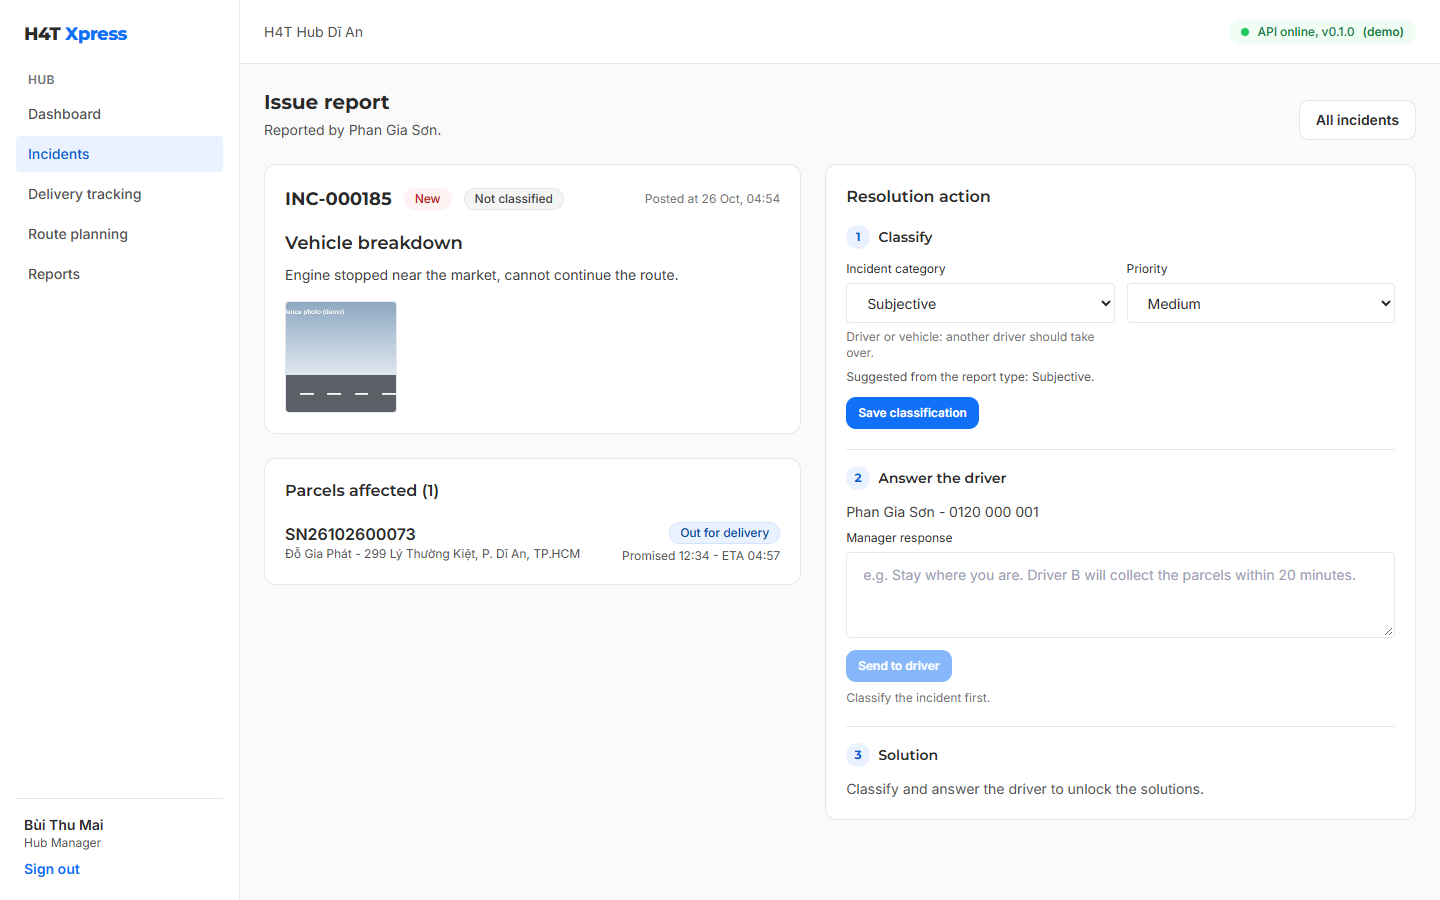
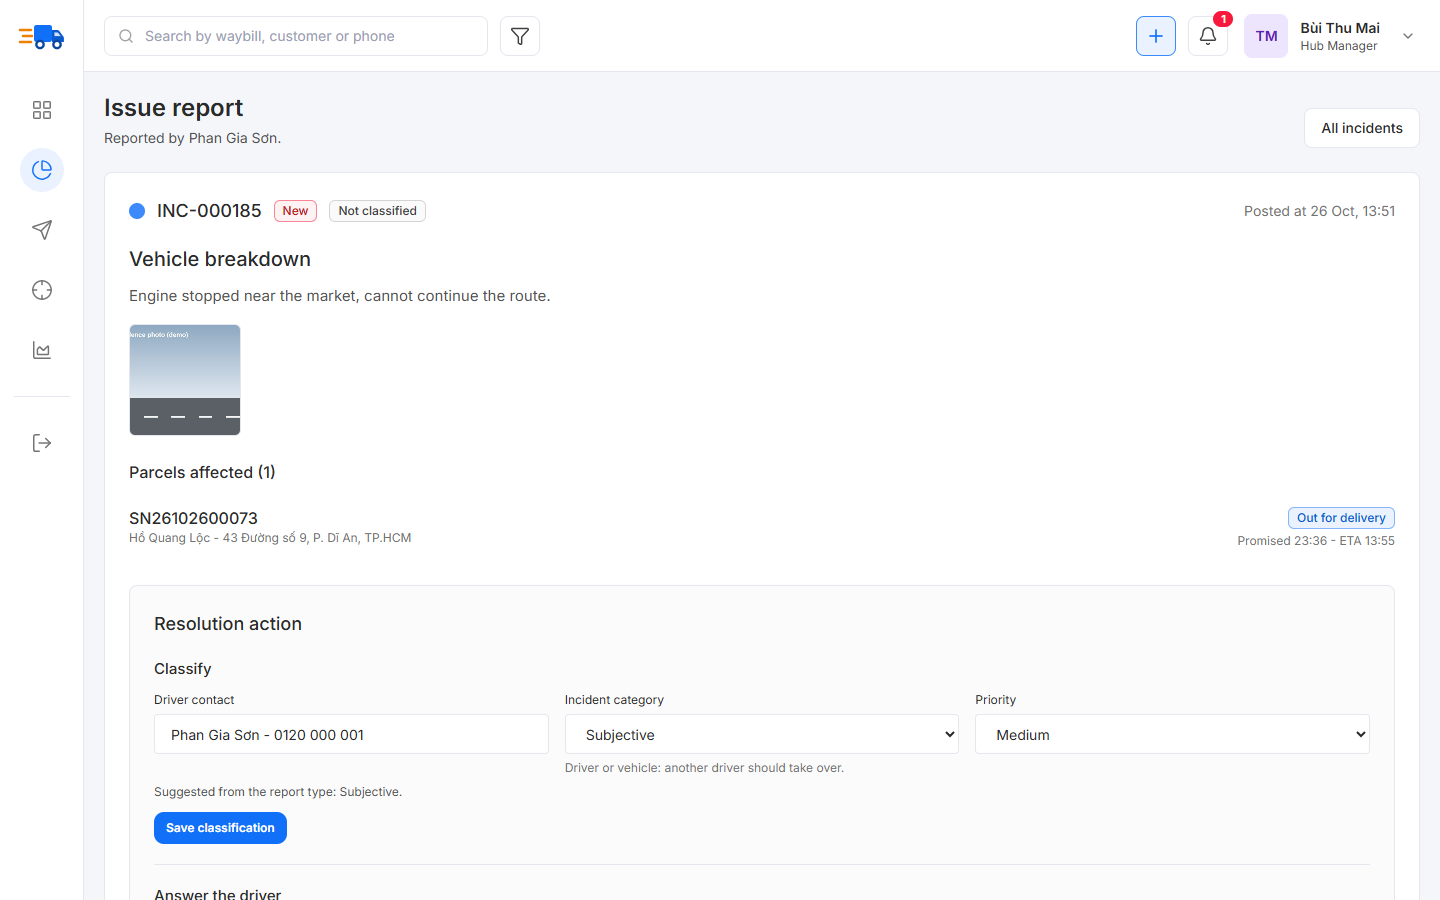
docs: Figma redesign decisions, checklist rows and new screenshots

diff --git a/docs/CHECKLIST.md b/docs/CHECKLIST.md
@@ -49,12 +49,12 @@ Kiểm thử ở cuối giai đoạn này:
 
 | | Màn | Route | Ghi chú |
 |---|---|---|---|
-| [x] | H-01 Dashboard | `/hub` | 5 thẻ KPI, vòng trạng thái (CSS conic-gradient, không dùng thư viện biểu đồ), cột "Needs attention" (đơn rủi ro SLA, sự cố mở), bảng đơn có lọc |
-| [x] | H-02 Lập kế hoạch tuyến | `/hub/routes` | Tuyến hôm nay theo tài xế, quãng đường và thời gian còn lại, nguồn ETA; "Suggest best order" (OSRM `/trip`), đổi thứ tự Up/Down, bản đồ tuyến hiện tại (đỏ, nét đứt) và bản nháp (xanh); lưu là gửi xuống tài xế |
-| [x] | H-03 Theo dõi giao hàng | `/hub/tracking[/:orderId]` | Cột tài xế (lọc Taking orders / With orders / All), bản đồ sống với vị trí cập nhật realtime và đường đi thật, timeline đơn, thao tác: chọn/đổi tài xế, giữ đơn, thả đơn, xác nhận hoàn hàng, ảnh các lần giao |
-| [x] | H-04 Tổng quan sự cố | `/hub/incidents` | KPI theo trạng thái, theo mức ưu tiên, theo loại 30 ngày, sự cố mới nhất |
-| [x] | H-05 Danh sách sự cố | `/hub/incidents/list` | Tab trạng thái, lọc ưu tiên, thẻ sự cố theo frame "View All Incidents" |
-| [x] | H-06 Chi tiết sự cố | `/hub/incidents/:id` | Frame "Issue Report": 3 bước Phân loại → Phản hồi → Giải pháp, lịch sử quyết định |
+| [x] | H-01 Dashboard | `/hub` | Bố cục frame "HUB Dashboard": "Recent orders" (đếm hôm nay, so với 30 ngày trước, biểu đồ vùng đơn theo ngày có con trỏ), "Orders by status" (vòng + chú thích 2 cột), cột "Needs attention" kiểu thẻ "Order Requests" (đơn rủi ro SLA, sự cố mở), bảng "Latest orders" (lọc trạng thái, SLA, tìm từ thanh trên), "Waiting for a driver" và "Routes in progress" |
+| [x] | H-02 Lập kế hoạch tuyến | `/hub/routes` | Bố cục frame "Route Planning": bản đồ lớn, danh sách tài xế nổi bên trái ("Change route"), thẻ tóm tắt và thanh thời gian giữa các điểm ở dưới, cột "Stops" bên phải (Up/Down, giờ ước tính); "Suggest best order" (OSRM `/trip`), tuyến hiện tại đỏ nét đứt, bản nháp xanh; lưu là gửi xuống tài xế |
+| [x] | H-03 Theo dõi giao hàng | `/hub/tracking[/:orderId]` | Bố cục frame "Theo dõi giao hàng": thẻ tài xế có icon xe tải, nút Track, mở ra các điểm dừng và số điện thoại; bản đồ "Shipment ID" với thẻ tóm tắt nổi; cột "Status" có thanh tiến độ, timeline kiểu Figma, "Actions", "Delivery details"; giữ/thả đơn, đổi tài xế, xác nhận hoàn hàng, ảnh các lần giao |
+| [x] | H-04 Tổng quan sự cố | `/hub/incidents` | Bố cục frame "Overview": 4 thẻ đếm, vòng sự cố mở theo ưu tiên, bản đồ tài xế đang chạy (thay "Reach"), tài xế online (thay "Member online"), loại sự cố 30 ngày, bảng sự cố mới nhất có dải tiêu đề màu cam nhạt |
+| [x] | H-05 Danh sách sự cố | `/hub/incidents/list` | Theo frame "View All Incidents": ô tìm (mã sự cố, tài xế, mã vận đơn), lọc ưu tiên có chấm màu, lọc thời gian, tab có icon, thẻ sự cố, phân trang số |
+| [x] | H-06 Chi tiết sự cố | `/hub/incidents/:id` | Bố cục frame "Issue Report": mã có chấm trạng thái, mô tả, ảnh, bản đồ, các kiện; hộp "Resolution action" (liên hệ tài xế, loại, ưu tiên trên một hàng; phản hồi; chọn giải pháp có icon), lịch sử quyết định |
 | [x] | H-07 Đổi tài xế | trong H-06 và H-03 | Bản đồ ứng viên + danh sách xếp hạng, popup "SUCCESS!" |
 | [x] | H-08 Đổi tuyến | trong H-06 | Dùng chung bộ sửa thứ tự với H-02: nút "Suggest best order", Up/Down, bản đồ tuyến cũ (đỏ, nét đứt) và mới (xanh) |
 
@@ -62,14 +62,14 @@ Kiểm thử ở cuối giai đoạn này:
 
 | | Màn | Route | Ghi chú |
 |---|---|---|---|
-| [x] | A-01 Danh sách người dùng | `/admin` | Tìm kiếm, lọc, phân trang, khoá/mở, đặt lại mật khẩu |
+| [x] | A-01 Danh sách người dùng | `/admin` | 4 thẻ đếm (tất cả, tài xế, quản lý Hub, bị khoá), tìm kiếm, lọc, bảng có avatar chữ viết tắt, phân trang, khoá/mở, đặt lại mật khẩu |
 | [x] | A-02 Tạo / sửa người dùng | `/admin/users/new`, `/admin/users/:id` | Mật khẩu tạm chỉ hiện một lần |
 | [x] | A-03 Ma trận phân quyền | `/admin/roles` | Bật/tắt theo vai trò × quyền |
 | [x] | A-04 Hub và khu vực | `/admin/hubs` | Thêm/sửa Hub (mã, tên, địa chỉ, toạ độ, khu vực, trạng thái) và khu vực; tắt Hub thay cho xoá |
 | [x] | A-05 Ca làm | `/admin/shifts` | Lọc theo Hub; sửa giờ, sức chứa, bật/tắt từng ca; giờ sai báo lỗi |
 | [x] | A-06 Tham số hệ thống | `/admin/settings` | Nhóm theo nghiệp vụ (Dispatch, ETA, SLA, Delivery, Shifts, Anomaly, Demo simulator); mỗi khoá có mô tả, luật kiểm tra và thời điểm lưu |
 | [x] | A-07 Nhật ký audit | `/admin/audit` | Lọc theo nhóm hành động, phân trang, xem giá trị trước/sau của từng thay đổi |
-| [x] | E-01 Báo cáo | `/reports` | Bộ lọc một hàng (7/30/90 ngày, khoảng ngày, chọn Hub); 8 thẻ KPI so với kỳ trước ("better/worse"); biểu đồ cột sản lượng có tooltip, chú giải và bảng số liệu; lý do thất bại, đúng hạn theo khu vực; top tài xế và Hub kèm thay đổi thứ hạng |
+| [x] | E-01 Báo cáo | `/reports` | Bố cục frame "Reports": bộ lọc dạng viên thuốc (Timeframe có khoảng ngày tự chọn, Hub chọn nhiều có chip); 6 thẻ KPI bo tròn so với kỳ trước, đường xu hướng cho tổng đơn, tỷ lệ thành công, đúng hạn; "Order volume" có cột nền, chọn ngày/tuần/tháng, bảng số liệu; lý do thất bại và đúng hạn theo khu vực dạng thanh chuyển màu; top tài xế (avatar) và Hub kèm tam giác lên/xuống |
 | [x] | E-02 Xuất file | `/reports` | Excel (mỗi khối một sheet) và PDF (KPI, bảng, biểu đồ, tiếng Việt có dấu); Hub Manager chỉ xem Hub của mình và không có quyền xuất |
 
 ### ShopNow (sàn giả lập) và khách hàng
@@ -84,7 +84,9 @@ Kiểm thử ở cuối giai đoạn này:
 ### Nền tảng giao diện
 
 - [x] Design system theo Figma: Montserrat cho tiêu đề và Inter cho nội dung; màu chính `#1070F8`; ô nhập 52px bo góc 4px; nút 50px bo góc 10px
-- [x] Không dùng thư viện icon, kể cả trên bản đồ: điểm đánh dấu là hình tròn vẽ bằng Leaflet `CircleMarker`
+- [x] Giao diện Hub, Nhà quản trị, Admin dựng lại theo Figma (26/10, P3-18): khung Hub có thanh icon hẹp và thanh trên (tìm đơn, lọc SLA, thao tác nhanh, chuông sự cố, menu người dùng); khung Reports/Admin có menu rộng và chữ "H4T XPRESS" đỏ; thẻ, bảng, huy hiệu viền mảnh theo Figma
+- [x] Icon `lucide-react` chỉ ở chỗ Figma có icon; điểm trên bản đồ vẫn là hình tròn `CircleMarker`
+- [x] Kiểm tra không tràn ngang ở 390px và 1024px cho mọi màn Hub, Reports, Admin
 - [x] Bộ component: thêm `TextAreaField`, `KpiCard`, `StatusBadge`, `Timeline`, `DeliverySteps`, `MapView`, `PhotoPicker`, `CandidatePicker`, `ScreenTitle`
 - [x] Bản đồ Leaflet + OpenStreetMap (tile của FOSSGIS `tile.openstreetmap.de`, vì DNS một số nhà mạng VN không phân giải `tile.openstreetmap.org`); tắt zoom bằng con lăn để trang cuộn bình thường
 - [x] Realtime: một WebSocket mỗi tab, tự kết nối lại; sự kiện từ server làm mới đúng các query liên quan

diff --git a/docs/SPEC.md b/docs/SPEC.md
@@ -362,10 +362,14 @@ Bổ sung cho §3.3, §5.4–§5.8, §5.11 và §7. Code và test bám theo bả
 | P3-11 | Tham số hệ thống (A-06) | Mỗi khoá có luật kiểm tra riêng; sai trả `SETTING_INVALID`; khoá nội bộ `sim.*` bị ẩn; mọi thay đổi ghi audit | Không nhập được giá trị làm hỏng điều phối |
 | P3-12 | Dữ liệu GPS | Mỗi giờ xoá điểm GPS cũ hơn 7 ngày | Giới hạn 0,5 GB của Neon free (§12) |
 | P3-13 | PWA | `public/sw.js` viết tay thay cho vite-plugin-pwa: trang network-first, `/assets` cache-first, không cache API; chỉ đăng ký ở bản build | Ít phụ thuộc, không vướng phiên bản Vite 8; app tài xế vẫn mở được khi mất mạng |
-| P3-14 | Frontend | Tách code theo trang bằng `React.lazy`; bản đồ chỉ dùng `CircleMarker` và `Polyline` | Tải nhanh trên điện thoại; không cần ảnh marker (quy ước không icon) |
+| P3-14 | Frontend | Tách code theo trang bằng `React.lazy`; bản đồ chỉ dùng `CircleMarker` và `Polyline` | Tải nhanh trên điện thoại; không cần tải ảnh marker |
 | P3-15 | E2E | Playwright chạy trên stack Docker; máy Windows dùng Edge có sẵn, CI dùng Chromium; workflow `e2e.yml` chạy khi mở PR | Chạy local không cần tải trình duyệt |
 | P3-16 | Lưu ảnh | Chỉ có lưu ổ đĩa; trên Render ảnh mất khi khởi động lại | Demo nạp lại mỗi ngày; adapter Cloudinary hoặc S3 để sau |
 | P3-17 | Thống kê tài xế | `daily_driver_stats` được cộng dồn ngay khi nhận, giao, giao lỗi và báo sự cố; không có job `stats.daily_snapshot` | Số liệu luôn đúng tới thời điểm xem |
+| P3-18 | Giao diện theo Figma (26/10) | Màn Hub, Nhà quản trị và Admin dựng lại theo bố cục Figma. Hub: thanh menu icon hẹp, thanh trên có ô tìm đơn, nút lọc SLA, menu thao tác nhanh "+", chuông sự cố đang mở, menu người dùng; thẻ trắng có tiêu đề và "View all". Reports và Admin: menu rộng có icon, chữ "H4T XPRESS" đỏ, thẻ bo tròn có bóng, bộ lọc dạng viên thuốc. Bỏ quy ước "không icon": dùng `lucide-react`, chỉ đặt ở chỗ Figma có icon | Chủ dự án yêu cầu giao diện giống Figma; bản tối giản trước đó bị đánh giá là quá đơn giản |
+| P3-19 | Tìm sự cố (H-05) | `GET /hub/incidents` thêm `q` (mã sự cố, tên tài xế hoặc mã vận đơn) và `days` (báo trong N ngày gần nhất) | Ô tìm kiếm và bộ lọc thời gian của frame "View All Incidents" chạy thật |
+| P3-20 | Đường xu hướng KPI (E-01) | Mỗi điểm của chuỗi sản lượng có thêm `on_time` và `returned`; sparkline của tỷ lệ thành công và đúng hạn tính đúng như KPI | Figma có đường xu hướng dưới thẻ KPI; không vẽ đường cho chỉ số không có dữ liệu theo kỳ |
+| P3-21 | Dữ liệu thay ảnh trong Figma | Ảnh người thật thành chữ viết tắt trên nền màu; ảnh minh hoạ lý do thất bại thành ô icon; thẻ "Revenue Growth" thành "On-time rate"; khối "Reach" thành bản đồ tài xế đang chạy | Demo không có ảnh thật và không quản lý doanh thu |
 
 **Thiết lập chế độ demo bổ sung:** `anomaly.idle_minutes` = 3, `sim.gps_enabled` = true, `sim.speed_factor` = 4. Seed cho tài xế thứ 2–4 của mỗi Hub đang giao sẵn trong ngày, để bản đồ và màn tối ưu tuyến có dữ liệu ngay.
 
@@ -379,7 +383,7 @@ Bổ sung cho §3.3, §5.4–§5.8, §5.11 và §7. Code và test bám theo bả
 |---|---|
 | Khung | React 19, TypeScript 6 (strict), Vite 8. Chưa dùng TypeScript 7 vì typescript-eslint chưa hỗ trợ |
 | Routing / data | React Router 8, TanStack Query (cache, refetch 60 giây cho dashboard theo UC-02), Zustand (phiên đăng nhập) |
-| UI | Tailwind CSS 4 + bộ component tự viết trong `components/ui` theo token mục 4.2; **không dùng thư viện icon** (chỉ chữ, huy hiệu màu, công tắc) |
+| UI | Tailwind CSS 4 + bộ component tự viết trong `components/ui` theo token mục 4.2; icon `lucide-react` đặt ở đúng chỗ Figma có icon [Đổi, P3-18] |
 | Form | Form có kiểm soát + hàm kiểm tra trong `features/*/validation.ts`, cùng luật với API (kiểm tra trước khi submit, theo "Error Prevention" mục 3.4) |
 | Bản đồ | react-leaflet + OSM tiles; polyline tuyến từ OSRM |
 | Biểu đồ | Recharts |
@@ -608,7 +612,7 @@ api/app/
 | POST | `/hub/routes/{id}/optimize` | Xem trước thứ tự tối ưu từ OSRM `/trip` (chưa lưu) |
 | PUT | `/hub/routes/{id}/stops/order` | `{stop_ids[]}` lưu thứ tự, tính lại ETA và gửi ngay xuống tài xế [Đổi, P3-4] |
 | GET | `/hub/incidents/summary` | Số sự cố theo trạng thái, mức ưu tiên, loại (30 ngày) |
-| GET | `/hub/incidents?status&priority&open_only` | |
+| GET | `/hub/incidents?status&priority&open_only&q&days` | `q`: mã sự cố, tên tài xế hoặc mã vận đơn; `days`: báo trong N ngày [P3-19] |
 | GET | `/hub/incidents/{id}` | |
 | POST | `/hub/incidents/{id}/classify` | `{category, priority}` |
 | POST | `/hub/incidents/{id}/respond` | `{message}` |

diff --git a/docs/traceability.md b/docs/traceability.md
@@ -16,7 +16,7 @@ Cập nhật: 26/10/2026, cuối Giai đoạn 3.
 | FR-D-05 / UC-05 | Cập nhật trạng thái giao | `delivery/service.py` | D-07, D-08, D-10, D-14 | `test_delivery.py` (6 test), `test_state_machine.py` (5 test) | `delivery.e2e.ts` |
 | FR-D-06 | Báo sự cố | `incidents/service.py::report` | D-11 `incidents/pages/ReportIncidentPage.tsx` | `test_incidents.py::test_report_needs_description_and_evidence` | `incident.e2e.ts` |
 | FR-H-01 / UC-04 | Điều phối lại đơn | `orders/hub_service.py`, `incidents/service.py::resolve` | H-07 `components/CandidatePicker.tsx` | `test_hub.py::test_reassign_takes_the_order_back_and_offers_it`, `test_incidents.py::test_reassign_hands_parcels_over_to_another_driver` | |
-| FR-H-02 / UC-02 | Theo dõi tiến độ | `orders/`, `realtime/`, `tracking/service.py` | H-01 `hub/pages/HubDashboardPage.tsx`, H-03 `hub/pages/TrackingPage.tsx` | `test_hub.py` (9 test), `test_realtime.py` | |
+| FR-H-02 / UC-02 | Theo dõi tiến độ (dashboard, bản đồ, tìm đơn ở thanh trên) | `orders/`, `realtime/`, `tracking/service.py` | H-01 `hub/pages/HubDashboardPage.tsx`, H-03 `hub/pages/TrackingPage.tsx` | `test_hub.py` (9 test), `test_realtime.py` | |
 | FR-H-03 / UC-03 | Điều chỉnh tuyến đường | `routing/planning.py`, `routing/osrm.py` | H-02 `hub/pages/RoutePlanningPage.tsx`, H-08 `incidents/components/ReroutePanel.tsx` | `test_routing.py::test_hub_plans_and_reorders_a_route`, `test_incidents.py::test_reroute_changes_the_stop_order` | `back-office.e2e.ts` (lập tuyến) |
 | FR-R-01..05 | Báo cáo | `reports/queries.py` | E-01 `reports/pages/ReportsPage.tsx` | `test_reports.py::test_executive_sees_every_hub_and_numbers_match`, `::test_period_and_granularity`, `::test_hub_manager_is_limited_to_their_hub` | `back-office.e2e.ts` (báo cáo) |
 | FR-R-06 | Xuất Excel/PDF | `reports/export.py` | E-02 nút trong `ReportsPage.tsx` | `test_reports.py::test_exports_open_as_excel_and_pdf` | |

diff --git a/README.md b/README.md
@@ -455,7 +455,7 @@ h4t-xpress/
 - **Errors** are raised as `AppError` subclasses with a stable `code` (for example `SHIFT_FULL`). The web app maps codes to user-facing sentences in `lib/errors.ts`.
 - **Logging** uses a `[function_name]` prefix for business events (`[register_shift] driver=... shift=...`).
 - **Frontend files** start with a one-line comment naming the file and its purpose. API calls live in `features/<area>/api.ts`, React Query hooks in `hooks.ts`, screens in `pages/`.
-- **No icon library**: the UI uses text labels, coloured badges and switches. Map markers are drawn circles (`CircleMarker`), never images.
+- **Figma first**: hub, report and admin screens follow the group's Figma frames. Icons come from `lucide-react` and appear only where Figma has one; people without photos get initials. Map markers are drawn circles (`CircleMarker`), never images.
 - **Realtime**: screens never parse WebSocket payloads. `RealtimeBridge` maps each server event to the React Query keys it invalidates, and the screens refetch.
 - **Background work** goes through the `jobs` table (`worker/jobs.py: enqueue`) inside the caller's transaction, so a job never runs for a change that was rolled back.
 - Formatting and linting: `ruff` and `mypy` for Python; `eslint` and `tsc` for TypeScript.
